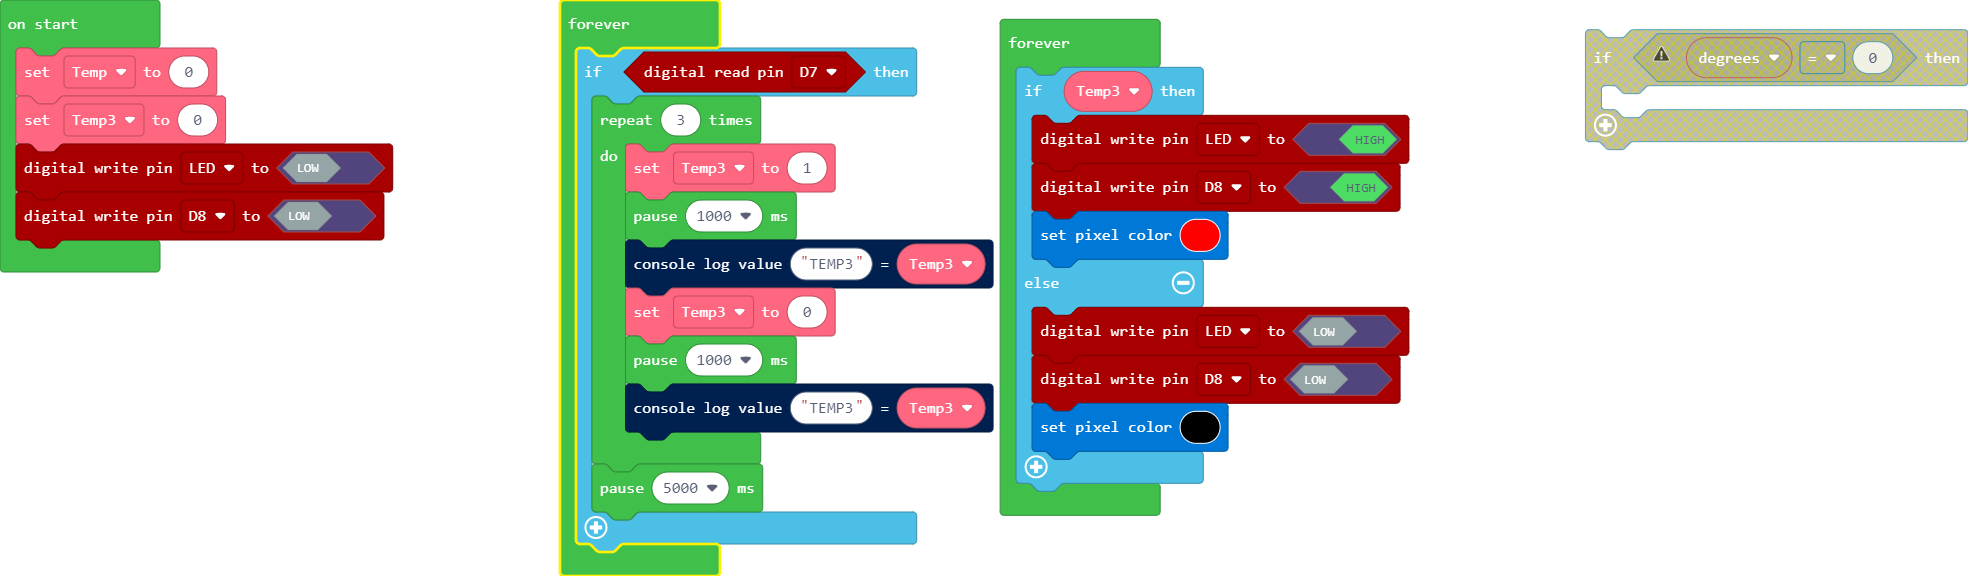
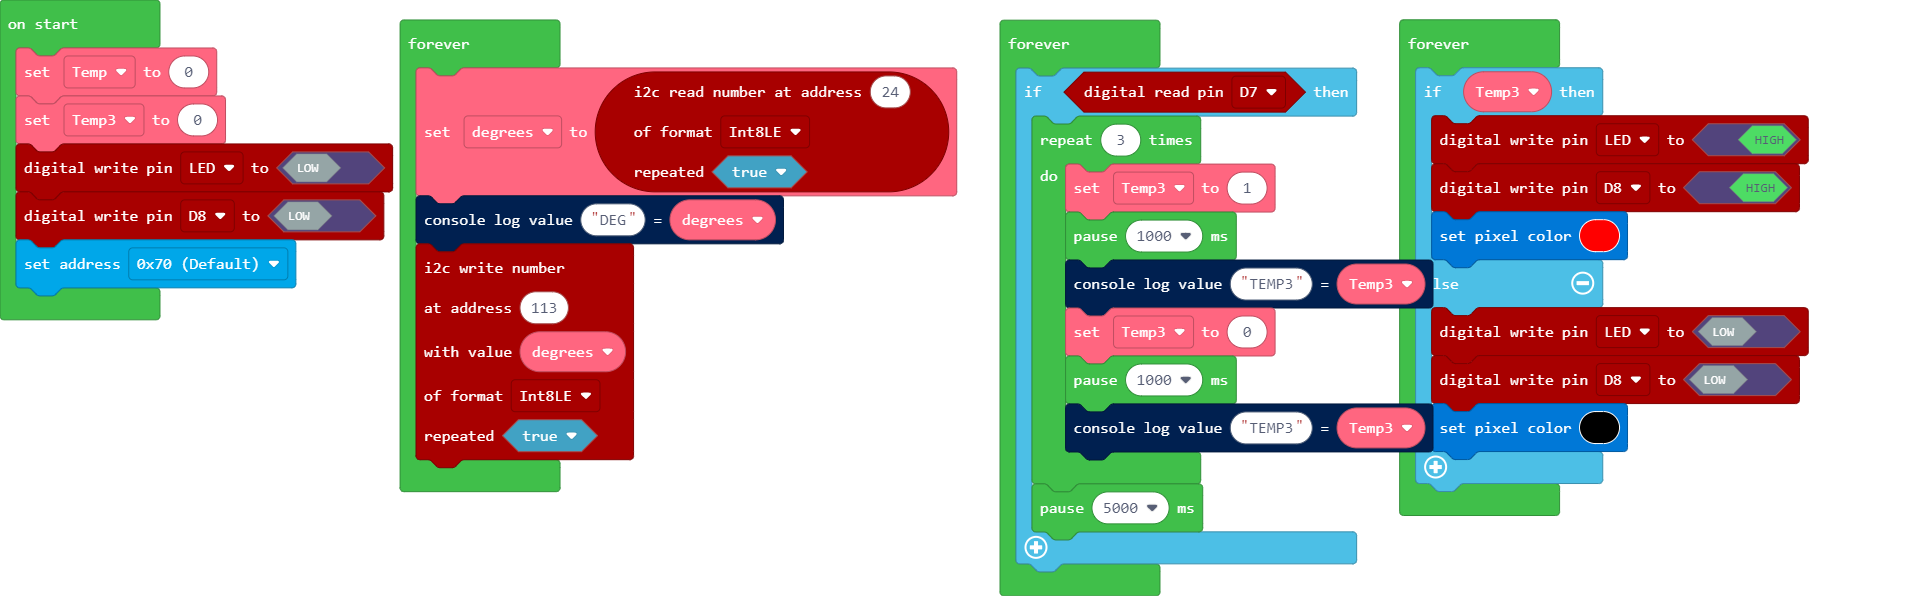
Update main.blocks, main.ts, main.py

diff --git a/main.ts b/main.ts
@@ -1,7 +1,23 @@
+let degrees = 0
 let Temp = 0
 let Temp3 = 0
 pins.LED.digitalWrite(false)
 pins.D8.digitalWrite(false)
+ht16k33.setAddress(HT16K33_I2C_ADDRESSES.ADD_0x70)
+forever(function () {
+    degrees = pins.i2cReadNumber(
+    24,
+    NumberFormat.Int8LE,
+    true
+    )
+    console.logValue("DEG", degrees)
+    pins.i2cWriteNumber(
+    113,
+    degrees,
+    NumberFormat.Int8LE,
+    true
+    )
+})
 forever(function () {
     if (pins.D7.digitalRead()) {
         for (let index = 0; index < 3; index++) {

diff --git a/main.py b/main.py
@@ -1,45 +1,28 @@
-def temp_up():
-    global Temp
-    Temp = 0
-    console.log_value("Temp", Temp)
-    pause(1000)
-    Temp = 1
-    console.log_value("Temp", Temp)
-    pause(1000)
-    Temp = 2
-    console.log_value("Temp", Temp)
-    pause(1000)
-    Temp = 3
-    console.log_value("Temp", Temp)
-def CodeTemp3():
-    global Temp3
-    for index in range(3):
-        Temp3 = 1
-        pause(1000)
-        Temp3 = 0
-        pause(1000)
-    pause(5000)
-    if Temp3:
-        pins.LED.digital_write(True)
-        pixel.set_color(0xff0000)
-    else:
-        pins.LED.digital_write(False)
-        pixel.set_color(0x000000)
-Temp = 0
-Temp3 = 0
-pins.LED.digital_write(False)
-ht16k33.set_address(HT16K33_I2C_ADDRESSES.ADD_0X70)
-ht16k33.set_blink_rate(5)
-ht16k33.set_brightness(100)
-CodeTemp3()
-def on_forever():
-    pass
-forever(on_forever)
-def on_forever2():
-    degrees = 0
-    if degrees == 0:
-        _7seg = 0
-        pins.i2c_write_number(113, _7seg, NumberFormat.UINT32_LE, True)
-        console.log_value("7Seg", _7seg)
-        pause(1000)
-forever(on_forever2)
+let Temp = 0
+let Temp3 = 0
+pins.LED.digitalWrite(false)
+pins.D8.digitalWrite(false)
+forever(function () {
+    if (pins.D7.digitalRead()) {
+        for (let index = 0; index < 3; index++) {
+            Temp3 = 1
+            pause(1000)
+            console.logValue("TEMP3", Temp3)
+            Temp3 = 0
+            pause(1000)
+            console.logValue("TEMP3", Temp3)
+        }
+        pause(5000)
+    }
+})
+forever(function () {
+    if (Temp3) {
+        pins.LED.digitalWrite(true)
+        pins.D8.digitalWrite(true)
+        pixel.setColor(0xff0000)
+    } else {
+        pins.LED.digitalWrite(false)
+        pins.D8.digitalWrite(false)
+        pixel.setColor(0x000000)
+    }
+})
